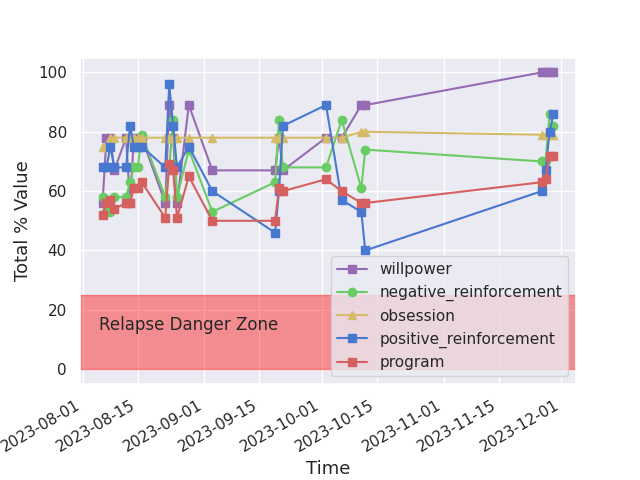
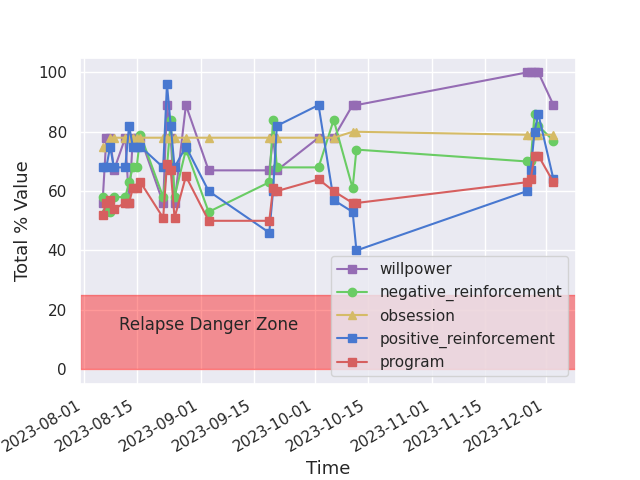
getting close

diff --git a/total_behavioural_tracker/src/cfg.py b/total_behavioural_tracker/src/cfg.py
@@ -6,20 +6,23 @@ from kivy.uix.popup import Popup
 from kivy.uix.anchorlayout import AnchorLayout
 from kivy.uix.button import Button
 from kivy.uix.textinput import TextInput
-from util import update_var_key_data,load_variable_data
+from util import update_var_key_data,load_variable_data,load_cfg
 
-GRID_LAYOUT = 1,10,5 # General Grid layout cfg
-# CFG for the labels at the top of the view to show what you're configuring 
-VAR_NAME_CFG = 40,'yellow'
-VAR_EX_CFG = 28,'white'
-# Button configurations
-BTN_HEIGHT = 80
-BTN_FONT_SIZE=30
-ACCEPT_COLOR,LOAD_CFG_COLOR='green','blue'
-# Text Input configuration
-INPUT_FONT_SIZE=18
-# Pop-up configuration
-POPUP_SIZE = (400,200)
+CFG = load_cfg()['cfg']
+
+GRID_LAYOUT = CFG['layout']
+TEXT = CFG['text']
+BUTTONS = CFG['buttons']
+
+VAR_NAME_CFG = TEXT['var']
+VAR_EX_CFG = TEXT['explanation']
+
+BTN_HEIGHT = BUTTONS['height']
+BTN_FONT_SIZE=BUTTONS['font_size']
+ACCEPT_COLOR,LOAD_CFG_COLOR= BUTTONS['accept_color'],BUTTONS['load_color']
+
+INPUT_FONT_SIZE= CFG['input']['font_size']
+POPUP_SIZE = CFG['popup']['size']
 
 class ConfigureVarKeyView(GridLayout):
     def __init__(self,file,var,data,app, **kwargs):
@@ -33,11 +36,11 @@ class ConfigureVarKeyView(GridLayout):
         exit_button.bind(on_release=self.exit_app)
         exit_button_layout.add_widget(exit_button)
         self.add_widget(exit_button_layout, index=0)
-
+        
         self.config_label = Label(text=var,font_size=VAR_NAME_CFG[0],italic=True,color=VAR_NAME_CFG[1])
         self.add_widget(self.config_label)
 
-        self.config_explanation = Label(text=data['ex'], font_size=VAR_EX_CFG[0],italic=True,color=VAR_EX_CFG[1])
+        self.config_explanation = Label(text=data['ex'], font_size=VAR_EX_CFG[0],italic=True,color=VAR_EX_CFG[1],valign='middle',halign='center')
         self.add_widget(self.config_explanation)
 
         self.config_input = TextInput(hint_text="Click 'Load' for current config or examples", multiline=True,font_size=INPUT_FONT_SIZE)
@@ -45,10 +48,10 @@ class ConfigureVarKeyView(GridLayout):
 
         self.button_layout = GridLayout(cols=2, row_force_default=True, row_default_height=BTN_HEIGHT) # UMMMM wha
         
-        self.reset_button = Button(text="Load",font_size=BTN_FONT_SIZE,background_color=LOAD_CFG_COLOR)
+        self.reset_button = Button(text="Load",font_size=BTN_FONT_SIZE,background_color=LOAD_CFG_COLOR,italic=True)
         self.reset_button.bind(on_press=self.reset_default),self.button_layout.add_widget(self.reset_button)
 
-        self.accept_button = Button(text="Accept",font_size=BTN_FONT_SIZE,background_color=ACCEPT_COLOR)
+        self.accept_button = Button(text="Accept",font_size=BTN_FONT_SIZE,background_color=ACCEPT_COLOR,italic=True)
         self.accept_button.bind(on_press=self.accept_input),self.button_layout.add_widget(self.accept_button)
 
         self.add_widget(self.button_layout)
@@ -64,8 +67,8 @@ class ConfigureVarKeyView(GridLayout):
         box = BoxLayout(orientation='vertical', padding=(10))
         msg = Label(text=f"Set {self.var} variable configuration \n for your {self.file.rstrip('.yaml')} ?")
         btn_layout = BoxLayout(size_hint_y=None, height=30, spacing=10)
-        yes_btn = Button(text='Yes', on_release=self.write_new_config)
-        no_btn = Button(text='No', on_release=self.cancel_popup)
+        yes_btn = Button(text='Yes', on_release=self.write_new_config,italic=True)
+        no_btn = Button(text='No', on_release=self.cancel_popup,italic=True)
         btn_layout.add_widget(yes_btn)
         btn_layout.add_widget(no_btn)
         box.add_widget(msg)
@@ -78,15 +81,17 @@ class ConfigureVarKeyView(GridLayout):
 
     def cancel_popup(self,instance):
         self.popup.dismiss()
+        self.app.next_screen()
     
-    def write_new_config(self,instance):
+    def write_new_config(self):
         update_var_key_data(self.file,self.var,self.user_input_keys)
-        self.popup.dismiss()
+        if self.popup: self.popup.dismiss()
         self.app.next_screen()
         
     def accept_input(self, instance):
         self.user_input_keys= list(filter(lambda x: x != '',''.join(list(map(lambda x:x.lower(),self.config_input.text))).split('\n')))
-        self.write_new_config() if not self.data['user'] else self.confirm_new_config() 
+        if not self.user_input_keys or self.user_input_keys == self.data['user']: self.app.next_screen() # catching empty input do nothing
+        self.write_new_config() if not self.data['user'] else self.confirm_new_config()
 
 class ConfigureApplication(App):
     def __init__(self,var_file, **kwargs):

diff --git a/total_behavioural_tracker/src/about.py b/total_behavioural_tracker/src/about.py
@@ -1,26 +1,31 @@
 from webbrowser import open_new_tab as urlopen
+from util import load_cfg
 from kivy.uix.anchorlayout import AnchorLayout
 from kivy.app import App
 from kivy.uix.button import Button
 from kivy.uix.boxlayout import BoxLayout
 from kivy.uix.label import Label
 
-# url configs
-creditor_url = "https://www.linkedin.com/in/michael-lenok-4919b659/"
-theory_url = "https://en.wikipedia.org/wiki/Glasser's_choice_theory"
-book_url = "https://www.amazon.com/"
-repo_url = "https://github.com/lukaselsrode/projects/tree/main/total_behavioural_tracker"
-tip_url = "https://buy.stripe.com/aEUcN71qN6Pv9Dq6oo"
-# description config
-DESCRIPTION_FONT_SIZE = 24
-# Title config
-TITLE_SIZE_HINT = (0.1,0.1)
-TITLE_FONT_SIZE = 40
-# Buttons config
-BUTTONS_SIZE_HINT = (1,0.25)
-BUTTONS_SPACING = 10
-BUTTON_FONT_SIZE=30
-SUPPORT_COLOR, CONTRIBUTE_COLOR = 'green', 'cyan'
+CFG = load_cfg()['about']
+URLS = CFG['urls']
+TITLE = CFG['title']
+BUTTONS = CFG['buttons']
+
+creditor_url = URLS['creditor']
+theory_url = URLS['theory']
+book_url = URLS['book']
+repo_url = URLS['repo']
+tip_url =  URLS['tip']
+
+DESCRIPTION_FONT_SIZE = CFG['description']['font_size']
+
+TITLE_SIZE_HINT = TITLE['size']
+TITLE_FONT_SIZE = TITLE['font_size']
+
+BUTTONS_SIZE_HINT = BUTTONS['size']
+BUTTONS_SPACING = BUTTONS['spacing']
+BUTTON_FONT_SIZE=BUTTONS['font_size']
+SUPPORT_COLOR, CONTRIBUTE_COLOR = BUTTONS['support_color'], BUTTONS['contribute_color']
 
 def hyperlink_fmt(text, link):
     return f"[color=0000ff][ref={link}][i]{text}[/i][/ref][/color]"
@@ -49,16 +54,16 @@ class About(App):
         exit_button_layout.add_widget(exit_button)
         layout.add_widget(exit_button_layout, index=0)
         # Title
-        title_label = Label(text="About The Total Behavioral Tracker App", size_hint=TITLE_SIZE_HINT,pos_hint={'x':0.5,'y':0},font_size=TITLE_FONT_SIZE)
+        title_label = Label(text="About The Total Behavioral Tracker App", size_hint=TITLE_SIZE_HINT,italic=True,color='yellow',pos_hint={'x':0.5,'y':0},font_size=TITLE_FONT_SIZE)
         # Credit Blurb
         credit_txt = HyperlinkLabel(text=f"""Credit goes to {hyperlink_fmt('Micheal Lenok',creditor_url)} an Addiction and Mental Health Counselor at the Sylvia Brafman Mental Health Center, for his work creating the 'program equation' based on {hyperlink_fmt("Glasser's work on 'choice theory'",theory_url)} combined with his own personal and professional experience detailed fully in his recent book {hyperlink_fmt("<BOOK HERE>",book_url)}""")
         # Buttons
         button_layout = BoxLayout(size_hint_y=None, size_hint=BUTTONS_SIZE_HINT, spacing=BUTTONS_SPACING)
         # Tip me
-        support_button = Button(text="Support this creator",font_size=BUTTON_FONT_SIZE,background_color=SUPPORT_COLOR)
+        support_button = Button(text="Support",font_size=BUTTON_FONT_SIZE,background_color=SUPPORT_COLOR,italic=True)
         support_button.bind(on_release=self.open_tip_jar)
         # Contribute
-        contribute_button = Button(text="Contribute to the application",font_size=BUTTON_FONT_SIZE,background_color=CONTRIBUTE_COLOR)
+        contribute_button = Button(text="Contribute",font_size=BUTTON_FONT_SIZE,background_color=CONTRIBUTE_COLOR,italic=True)
         contribute_button.bind(on_release=self.open_code_repository)
         # Widget additions
         button_layout.add_widget(support_button)

diff --git a/total_behavioural_tracker/src/measure.py b/total_behavioural_tracker/src/measure.py
@@ -3,17 +3,22 @@ from kivy.uix.gridlayout import GridLayout
 from kivy.uix.label import Label
 from kivy.uix.button import Button
 from kivy.uix.anchorlayout import AnchorLayout
-from util import will_power, pos_reinforcement,neg_reinforcement,obsession, normalize_as_pct,store_measurement
-# View Layout
-PAGE_LAYOUT = 1,3
-# Question
-QUESTION_FONT_SIZE = 40
-QUESTION_SIZE_HINT_Y = 0.5 
-# Buttons
-BTN_FONT_SIZE = 30
-BTN_SIZE_HINT=(0.5,0.25)   
-SPACE_BTWEEN_BTNS = 50     
-NO_COLOR,YES_COLOR = 'orange','green'
+from util import will_power, pos_reinforcement,neg_reinforcement,obsession, normalize_as_pct,store_measurement,load_cfg
+
+
+CFG = load_cfg()['measure']
+
+PAGE_LAYOUT =CFG['layout']
+QUESTION = CFG['question']
+BUTTONS=CFG['buttons']
+
+QUESTION_FONT_SIZE = QUESTION['font_size']
+QUESTION_SIZE_HINT_Y = QUESTION['size_y'] 
+
+BTN_FONT_SIZE = BUTTONS['font_size']
+BTN_SIZE_HINT=BUTTONS['size']
+SPACE_BTWEEN_BTNS =BUTTONS['space']     
+NO_COLOR,YES_COLOR = BUTTONS['no_color'], BUTTONS['yes_color']
 
 class QuestionView(GridLayout):
     def __init__(self,app,**kwargs):
@@ -21,26 +26,23 @@ class QuestionView(GridLayout):
         self.app = app
         self.var = self.app.vars[self.app.var_index]
         self.question = self.var.questions[self.app.q_index]
-        self.cols,self.rows= PAGE_LAYOUT # More rows for better distribution of space
-        # Create an anchor layout for the exit button
+        self.cols,self.rows= PAGE_LAYOUT 
         exit_button_layout = AnchorLayout(anchor_x='right', anchor_y='top', size_hint=(1, 0.1))
         exit_button = Button(text='Back', size_hint=(0.1, 1),background_color='red')
         exit_button.bind(on_release=self.exit_app)
         exit_button_layout.add_widget(exit_button)
         self.add_widget(exit_button_layout, index=0)
-        # Adding a centered question
-        self.question_label = Label(text=self.question, font_size=QUESTION_FONT_SIZE, halign='center', valign='middle', size_hint_y=QUESTION_SIZE_HINT_Y)
+        self.question_label = Label(text=self.question, font_size=QUESTION_FONT_SIZE, halign='center', valign='middle', size_hint_y=QUESTION_SIZE_HINT_Y,color='yellow',italic=True)
         self.question_label.bind(size=self.question_label.setter('text_size'))
         self.add_widget(self.question_label)
-        # GridLayout for buttons
         self.button_layout = GridLayout(cols=2,spacing=SPACE_BTWEEN_BTNS, size_hint_y=0.5)
         self.button_layout.bind(minimum_height=self.button_layout.setter('height'))
         # NO button
-        self.no_button = Button(text='No', font_size=BTN_FONT_SIZE, background_color=NO_COLOR,size_hint=BTN_SIZE_HINT)
+        self.no_button = Button(text='No', font_size=BTN_FONT_SIZE, background_color=NO_COLOR,size_hint=BTN_SIZE_HINT,italic=True)
         self.no_button.bind(on_release=self.on_no)
         self.button_layout.add_widget(self.no_button)
         # YES button
-        self.yes_button = Button(text='Yes', font_size=BTN_FONT_SIZE, background_color=YES_COLOR,size_hint=BTN_SIZE_HINT)
+        self.yes_button = Button(text='Yes', font_size=BTN_FONT_SIZE, background_color=YES_COLOR,size_hint=BTN_SIZE_HINT,italic=True)
         self.yes_button.bind(on_release=self.on_yes)
         self.button_layout.add_widget(self.yes_button)
         # Adding a wrapper layout to center the button layout

diff --git a/total_behavioural_tracker/src/main.py b/total_behavioural_tracker/src/main.py
@@ -12,38 +12,46 @@ from about import About
 from cfg import ConfigureApplication
 from measure import ProgramMeasurementApp
 # This is for the pop-up to ask if you want to overwrite existing data if the data already exists for todays measurement
-from util import new_entry_valid, overwrite_last_entry
+from util import new_entry_valid, overwrite_last_entry,load_cfg
 
-# THIS IS THE APPLICATION CONFIG
-DEFAULT_USER_CFG_PATH = './config/user_data/'
-DEFAULT_PROGRAM_VAR_DIR = f'{DEFAULT_USER_CFG_PATH}public'
-DEFAULT_IMG = f'{DEFAULT_USER_CFG_PATH}graph.png'
-# FOR THE APPLICATION TITLE
-TITLE_SIZE_HINT = (0.2,0.2)
-TITLE_FONT_SIZE = 45
-TITLE_COLOR = 'blue'
-# MAIN BUTTON CFG
-MAIN_BUTTON_LAYOUT_SIZE = (1, 0.2)
-MAIN_BUTTON_SIZE = (0.25, 1)
-MAIN_BUTTON_FONT_SIZE = 30
-CFG_BUTTON_COLOR, MEASURE_BUTTON_COLOR = 'yellow','green'
-# VARIABLE CFG BUTTON
-CFG_VAR_SIZE_HINT_Y = None
-CFG_VAR_HEIGHT = 60
-CFG_VAR_FONT_SIZE = 18
-CFG_VAR_BUTTON_COLOR = 'orange'
-# ABOUT BUTTON
-ABT_SIZE_HINT = (0.05, 1)
-ABT_BUTTON_COLOR = 'cyan'
-# POP UP 
-POPUP_SIZE = (400,200)
+CFG = load_cfg()
+MCFG = CFG['main']
+PATHS = CFG['paths']
+BUTTONS = MCFG['buttons']
+DROPDOWN = MCFG['dropdown']
+ABOUT = MCFG['about']
+POPUP = MCFG['popup']
+TITLE = MCFG['title']
+
+DEFAULT_USER_CFG_PATH = PATHS['cfg_root']
+DEFAULT_PROGRAM_VAR_DIR = PATHS['vars_dir']
+DEFAULT_IMG = PATHS['img']
+
+TITLE_SIZE_HINT = TITLE['size']
+TITLE_FONT_SIZE = TITLE['font_size']
+TITLE_COLOR = TITLE['color']
+
+MAIN_BUTTON_LAYOUT_SIZE = BUTTONS['layout_size']
+MAIN_BUTTON_SIZE = BUTTONS['size']
+MAIN_BUTTON_FONT_SIZE = BUTTONS['font_size']
+CFG_BUTTON_COLOR, MEASURE_BUTTON_COLOR = BUTTONS['cfg_color'], BUTTONS['measure_color']
+
+CFG_VAR_HEIGHT = DROPDOWN['height']
+CFG_VAR_FONT_SIZE = DROPDOWN['font_size']
+CFG_VAR_BUTTON_COLOR = DROPDOWN['color']
+
+ABT_SIZE_HINT = ABOUT['size']
+ABT_BUTTON_COLOR = ABOUT['color']
+
+POPUP_SIZE = POPUP['size']
 
 class VariableButton(Button):
     def __init__(self,app, **kwargs):
         super(VariableButton, self).__init__(**kwargs)
-        self.size_hint_y, self.height = CFG_VAR_SIZE_HINT_Y, CFG_VAR_HEIGHT
+        self.size_hint_y, self.height = None, CFG_VAR_HEIGHT
         self.font_size=CFG_VAR_FONT_SIZE
         self.background_color = CFG_VAR_BUTTON_COLOR
+        self.italic=True
         self.app=app
         self.bind(on_release=self.configure_variable)
 
@@ -62,6 +70,7 @@ class VarsDropDown(DropDown):
 class MainButton(Button):
     def __init__(self, **kwargs):
         super(MainButton, self).__init__(**kwargs)
+        self.italic=True
         self.size_hint = MAIN_BUTTON_SIZE
         self.font_size= MAIN_BUTTON_FONT_SIZE
         
@@ -79,7 +88,7 @@ class MainButtonLayout(BoxLayout):
         self.orientation = 'horizontal'
         self.size_hint = MAIN_BUTTON_LAYOUT_SIZE
         # About button
-        self.about_button = Button(text='About', size_hint=ABT_SIZE_HINT,background_color=ABT_BUTTON_COLOR)
+        self.about_button = Button(text='About', size_hint=ABT_SIZE_HINT,background_color=ABT_BUTTON_COLOR,italic=True)
         self.about_button.bind(on_release=self.get_about_page)
         self.add_widget(self.about_button)
         # config options

diff --git a/total_behavioural_tracker/src/util.py b/total_behavioural_tracker/src/util.py
@@ -7,25 +7,26 @@ from matplotlib import pyplot as plt
 import seaborn as sns
 
 
-AXES_FONT_SIZE=13
-
-global DAT_FILE
-global VARS_DIR
-global IMG_FILE
-CFG_ROOT='config/user_data/'
-DAT_FILE = f'{CFG_ROOT}data.csv'
-IMG_FILE = f'{CFG_ROOT}graph.png'
-VARS_DIR = f'{CFG_ROOT}public/'
-
-
+# A funtion to load the application configuration specific to each file
 def load_cfg()->dict:
     with open('config/app_cfg.yaml','r') as f:
         cfg = yaml.safe_load(f)
     return cfg
 
-## TODO: 
-def load_page_cfg():
-    return load_cfg()[__file__.split('/')[-1].rstrip('.py')]
+CFG = load_cfg()
+PATHS = CFG['paths']
+DAT_FILE = PATHS['data']
+IMG_FILE = PATHS['img']
+VARS_DIR = PATHS['vars_dir']
+AXES_FONT_SIZE=CFG['util']['axes_font_size']
+
+
+def reset_user_configs():
+    return
+
+def reset_user_files():
+    return
+
 
 # a function to load the yaml files where the users terms are configured
 def load_variable_data(varname)->dict:
@@ -44,11 +45,10 @@ def update_var_key_data(var_name:str, key:str, new_data:list[str])->None:
 
 # function to write data to csv file 
 def store_measurement(data:list[int]) -> None:
-    if new_entry_valid():
-        with open(DAT_FILE, 'a') as f:
-            writer = csv.writer(f)
-            writer.writerow([get_date()] + data)
-        store_daily_visualization()
+    with open(DAT_FILE, 'a') as f:
+        writer = csv.writer(f)
+        writer.writerow([get_date()] + data)
+    store_daily_visualization()
     
 # function to get todays date
 def get_date() -> str:
@@ -122,3 +122,4 @@ def set_plot_options(df:pd.DataFrame) -> None:
 def store_daily_visualization()->None:
     df=get_formatted_df()
     set_plot_options(df),plt.savefig(IMG_FILE)
+    

diff --git a/total_behavioural_tracker/README.md b/total_behavioural_tracker/README.md
@@ -1,7 +1,13 @@
-Formating: 
-	- Need to port everything into the config file to make shit easier to standardize []
-	- OHHHH DON'T worry wayyy more to come once I get perfectionistic with this []
 
+
+Prettify:
+	general: 
+		- Pick a font and standardize it across the app []
+	Page: 
+		image: 
+			- Move the legend box to bottom left, and the leggend-box should be wayy smaller []
+			- save image to a set-size []
+	
 Features:
 	- Daily Notification []
 
